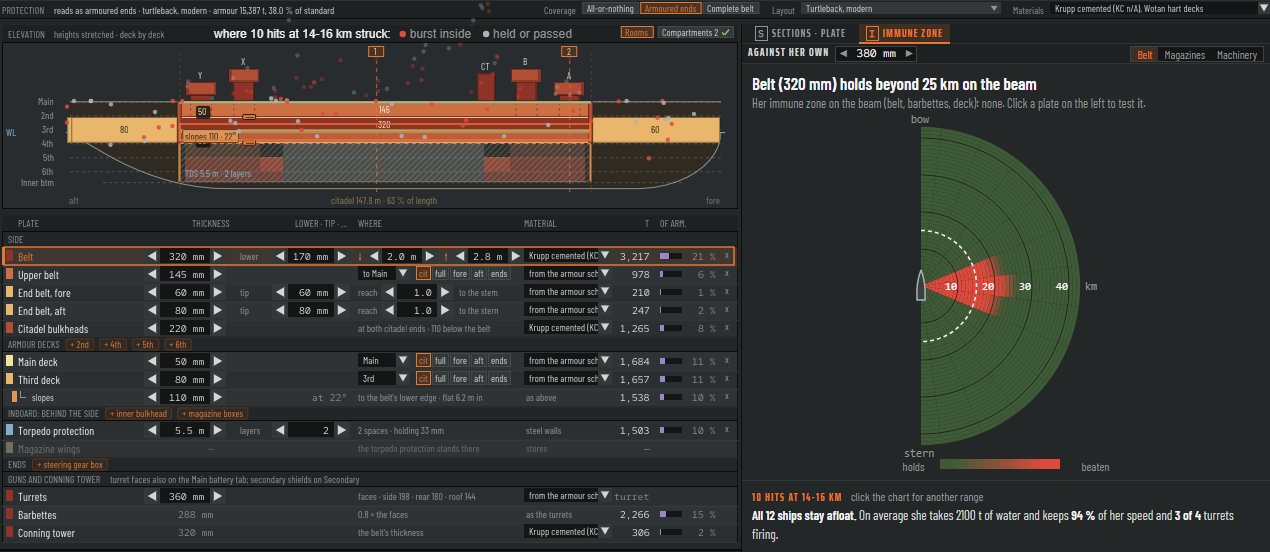
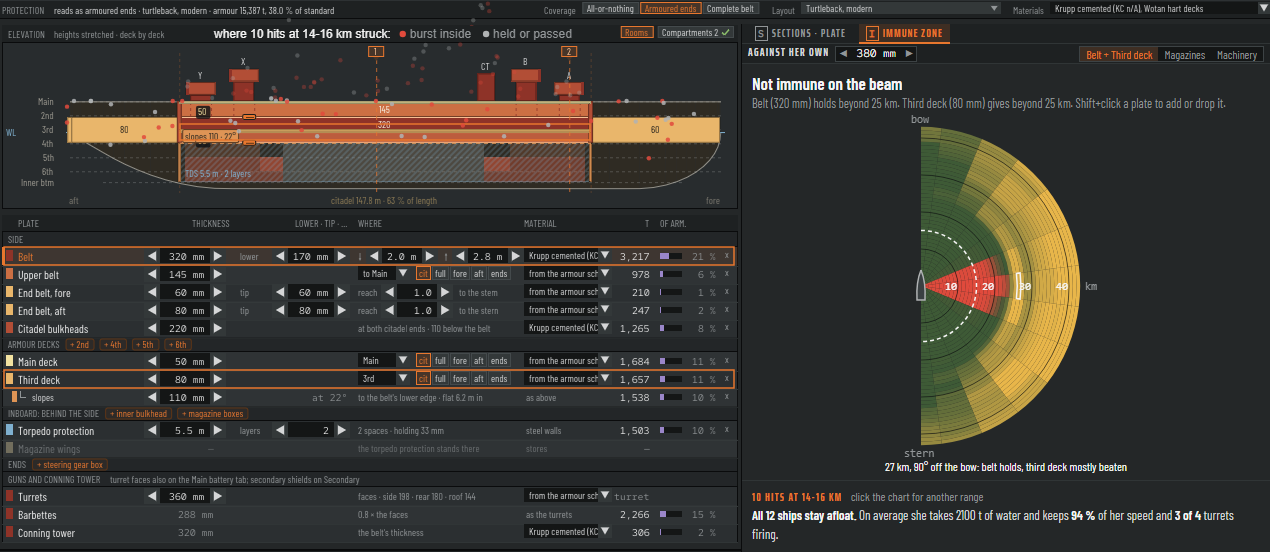
Immune zone mockup: shift+click tests plates together, the main belt and her thickest deck by default

diff --git a/docs/designer-ui/immune.html b/docs/designer-ui/immune.html
@@ -7,8 +7,10 @@
      Second pass (2026-11-14, the user: "way too information dense"): the chart alone, a headline, and in words what hits
      at the range picked on the chart do to her. Third: the armour first (the belt, the main barbettes, the deck), the
      vitals a click away; the placeholder gone from Sections · plate. Sixth: a plate picked on the left (a row of the
-     table, or the plate on the elevation) is tested at its centre; the main belt by default.
-     URL: ?cal=305|203  ?v=plate|mag|mach  ?plate=belt|upper|end-fore|end-aft|bulkheads|deck:0|deck:2|slopes|turrets|barbettes|ct  ?km=N (the range picked)  ?hover=R,A (a cell's tip: range index, angle index)
+     table, or the plate on the elevation) is tested at its centre; the main belt by default. Eighth: shift+click adds or
+     drops a plate, the plates picked tested together (beaten where any is); the main belt and her thickest deck by default.
+     URL: ?cal=305|203  ?v=plate|mag|mach  ?plate=belt,deck:2 (any of belt, upper, end-fore, end-aft, bulkheads, deck:0,
+     deck:2, slopes, turrets, barbettes, ct)  ?km=N (the range picked)  ?hover=R,A (a cell's tip: range index, angle index)
      ?tab=plate (the right column as it is today) -->
 <style>
 @font-face{font-family:'Saira Extra Condensed';font-weight:700;src:url(assets/fonts/saira-extra-condensed-latin-700-normal.woff2)}
@@ -60,7 +62,7 @@ body{background:var(--edge);font:13px/1.3 var(--font-ui);color:var(--text)}
 <script src="immune-data.js"></script>
 <script>
 const q = new URLSearchParams(location.search);
-const S = {cal: +(q.get('cal') || 380), v: {mag: 1, mach: 2}[q.get('v')] ?? 0, plate: q.get('plate') || 'belt', km: q.has('km') ? +q.get('km') : 15, hover: q.get('hover'), tab: q.get('tab') || 'iz'};
+const S = {cal: +(q.get('cal') || 380), v: {mag: 1, mach: 2}[q.get('v')] ?? 0, sel: q.get('plate') ? q.get('plate').split(',') : null, km: q.has('km') ? +q.get('km') : 15, hover: q.get('hover'), tab: q.get('tab') || 'iz'};
 const C = {red: '#E04A3C', amber: '#E8B64A', muted: '#919597', bright: '#F5F5F5', plan: '#B0B3B4'};
 const h = (t, a = {}, ...k) => { const e = document.createElement(t); for (const [n, x] of Object.entries(a)) n === 'on' ? e.onclick = x : e.setAttribute(n, x);
   for (const c of k.flat()) if (c != null) e.append(c.nodeType ? c : document.createTextNode(c)); return e; };
@@ -80,14 +82,16 @@ const PLATES = {
   'barbettes': {name: 'Barbettes', mm: 288, row: 505, el: []},
   'ct': {name: 'Conning tower', mm: 320, row: 523, el: [[477, 66, 21, 34]]},
 };
-const P = () => IZ.plates[S.cal][S.plate], PL = () => PLATES[S.plate];
-const through = (r, ai) => { const c = P().cells[r]?.[ai]; return c && c[0] ? c[1] / c[0] : 0; };
+// the plates picked: the main belt and her thickest deck unless the URL says
+S.sel ??= ['belt', Object.keys(PLATES).filter(k => k.startsWith('deck:')).reduce((a, b) => PLATES[b].mm > PLATES[a].mm ? b : a)];
+const PS = k => IZ.plates[S.cal][k];
+const shareOf = (k, r, ai) => { const c = PS(k).cells[r]?.[ai]; return c && c[0] ? c[1] / c[0] : null; };
+const label = () => S.sel.map(k => PLATES[k].name).join(' + ');
 const band = () => A().bands.find(b => S.km * 1000 >= b.from && S.km * 1000 < b.to) ?? A().bands[0];
 
 // the plate: holds, or beaten (more than half through it whole: red for a plate that stands as the side, amber for one
 // that lies as a deck). The vitals: safe, in through the side, in through the deck.
 function state(r, ai) {
-  if (S.v === 0) return through(r, ai) >= 0.5 ? (PL().lies ? 'deck' : 'side') : 'safe';
   const [shots, , side, deck] = T(S.v + 2).cells[r][ai];
   if (!shots) return 'safe';
   return side / shots >= 0.5 ? 'side' : deck / shots >= 0.5 ? 'deck' : 'safe';
@@ -99,26 +103,38 @@ const fill = {side: C.red, deck: C.amber, safe: '#3E5A36'};
 function colourOf(r, ai) {
   // the share softened with its neighbours for the colour alone (half its own, the rest from the next ranges and
   // angles): a few shells' chance doesn't mottle the chart; the headline and the edges keep the cells' own
-  const z = Z(), raw = (rr, aa) => {
-    if (rr < 0 || rr >= z.ranges.length || aa < 0 || aa >= z.angles.length) return null;
-    if (S.v === 0) { const c = P().cells[rr][aa]; return c[0] ? c[1] / c[0] : null; }
-    const c = T(S.v + 2).cells[rr][aa]; return c[0] ? (c[2] + c[3]) / c[0] : null;
+  const z = Z();
+  const soft = raw => {
+    let sum = 0, w = 0;
+    for (const [dr, da, k] of [[0, 0, 4], [-1, 0, 1], [1, 0, 1], [0, -1, 1], [0, 1, 1]]) {
+      const rr = r + dr, aa = ai + da;
+      if (rr < 0 || rr >= z.ranges.length || aa < 0 || aa >= z.angles.length) continue;
+      const x = raw(rr, aa);
+      if (x != null) { sum += k * x; w += k; }
+    }
+    return w ? sum / w : 0;
   };
-  let sum = 0, w = 0;
-  for (const [dr, da, k] of [[0, 0, 4], [-1, 0, 1], [1, 0, 1], [0, -1, 1], [0, 1, 1]]) {
-    const x = raw(r + dr, ai + da);
-    if (x != null) { sum += k * x; w += k; }
+  let share, to;
+  if (S.v === 0) {
+    // the plates together: beaten where any is, its colour by the kind of plate that gives most (red a side plate,
+    // amber a deck)
+    let side = 0, deck = 0;
+    for (const k of S.sel) {
+      const x = soft((rr, aa) => shareOf(k, rr, aa));
+      if (PLATES[k].lies) deck = Math.max(deck, x); else side = Math.max(side, x);
+    }
+    [share, to] = side >= deck ? [side, fill.side] : [deck, fill.deck];
+  } else {
+    share = soft((rr, aa) => { const c = T(S.v + 2).cells[rr][aa]; return c[0] ? (c[2] + c[3]) / c[0] : null; });
+    const [, , side, deck] = T(S.v + 2).cells[r][ai];
+    to = side >= deck ? fill.side : fill.deck;
   }
-  const share = w ? sum / w : 0;
-  let to = PL().lies ? fill.deck : fill.side;
-  if (S.v !== 0) { const [, , side, deck] = T(S.v + 2).cells[r][ai]; to = side >= deck ? fill.side : fill.deck; }
   return mix(fill.safe, to, Math.min(1, Math.max(0, (share - 0.1) / 0.8)));
 }
 const mix = (a, b, t) => {
   const p = x => [1, 3, 5].map(i => parseInt(x.slice(i, i + 2), 16)), [x, y] = [p(a), p(b)];
   return `rgb(${x.map((v, i) => Math.round(v + (y[i] - v) * t)).join(',')})`;
 };
-const keys = () => S.v === 0 ? [['safe', 'holds'], [PL().lies ? 'deck' : 'side', 'beaten']] : [['safe', 'safe'], ['side', 'in through the side'], ['deck', 'in through the deck']];
 
 function chart() {
   const R = 160, W = R + 70, H = 2 * R + 26, cv = h('canvas', {id: 'chart', width: W, height: H}), g = cv.getContext('2d');
@@ -151,7 +167,7 @@ function chart() {
       const gets = x => x < 0.1 ? 'safe' : x < 0.5 ? 'a few get in' : x < 0.9 ? 'most get in' : 'all get in';
       const at = `${z.ranges[r] / 1000} km, ${z.angles[ai]}° off the bow: `;
       let t;
-      if (S.v === 0) t = at + (P().cells[r][ai][0] ? `${PL().name.toLowerCase()} ${held(through(r, ai))}` : `the ${PL().name.toLowerCase()} can't be hit from there`);
+      if (S.v === 0) t = at + S.sel.map(k => { const x = shareOf(k, r, ai); return `${PLATES[k].name.toLowerCase()} ${x == null ? 'not hit from there' : held(x)}`; }).join(', ');
       else { const c = T(S.v + 2).cells[r][ai]; t = at + (c[0] ? gets((c[2] + c[3]) / c[0]) : 'out of reach'); }
       // the cell outlined, its words on the line under the chart
       const a0 = (Math.max(0, z.angles[ai] - 7.5) - 90) * Math.PI / 180, a1 = (Math.min(180, z.angles[ai] + 7.5) - 90) * Math.PI / 180;
@@ -176,15 +192,28 @@ function headline() {
   const [zi, zo] = z.armour[beam];
   const zone = zi <= 0 && zo >= z.reachM ? 'at every range' : zo - zi >= 1000 ? `from ${kmOf(zi)} to ${kmOf(zo)} km` : 'none';
   if (S.v === 0) {
-    const pl = PL(), [inner, outer] = P().edges[beam], name = `${pl.name} (${pl.mm} mm)`;
-    // the plural plates (barbettes, turrets, bulkheads, slopes) hold, the one belt holds
-    const many = /s$/.test(pl.name), holds = many ? 'hold' : 'holds', gives = many ? 'give' : 'gives', is = many ? 'are' : 'is';
-    const head = pl.lies
-      ? outer >= z.reachM ? `${name} ${holds} at every range on the beam` : `${name} ${gives} beyond ${kmOf(outer)} km on the beam`
-      : inner <= 0 ? `${name} ${holds} at every range on the beam` : inner >= z.reachM - 1000 ? `${name} ${is} beaten at every range on the beam`
-      : `${name} ${holds} beyond ${kmOf(inner)} km on the beam`;
-    return [h('div', {class: 'head'}, head),
-      h('div', {class: 'why'}, `Her immune zone on the beam (belt, barbettes, deck): ${zone}. Click a plate on the left to test it.`)];
+    // each plate in a sentence: a side plate holds beyond a range, a deck gives beyond one
+    const sentence = k => {
+      const pl = PLATES[k], [inner, outer] = PS(k).edges[beam], name = `${pl.name} (${pl.mm} mm)`;
+      const many = /s$/.test(pl.name), holds = many ? 'hold' : 'holds', gives = many ? 'give' : 'gives', is = many ? 'are' : 'is';
+      return pl.lies
+        ? outer >= z.reachM ? `${name} ${holds} at every range` : `${name} ${gives} beyond ${kmOf(outer)} km`
+        : inner <= 0 ? `${name} ${holds} at every range` : inner >= z.reachM - 1000 ? `${name} ${is} beaten at every range`
+        : `${name} ${holds} beyond ${kmOf(inner)} km`;
+    };
+    const hint = S.sel.length > 1 ? 'Shift+click a plate to add or drop it.' : 'Click a plate on the left to test it; shift+click to test several together.';
+    if (S.sel.length === 1)
+      return [h('div', {class: 'head'}, sentence(S.sel[0]) + ' on the beam'),
+        h('div', {class: 'why'}, `Her immune zone on the beam (belt, barbettes, deck): ${zone}. ${hint}`)];
+    // together: from where every side plate holds to where the first deck gives
+    let inner = 0, outer = z.reachM;
+    for (const k of S.sel) {
+      const [i, o] = PS(k).edges[beam];
+      if (PLATES[k].lies) outer = Math.min(outer, o); else inner = Math.max(inner, i);
+    }
+    const head = inner <= 0 && outer >= z.reachM ? 'Immune at every range on the beam'
+      : outer - inner >= 1000 ? `Immune from ${kmOf(inner)} to ${kmOf(outer)} km on the beam` : 'Not immune on the beam';
+    return [h('div', {class: 'head'}, head), h('div', {class: 'why'}, S.sel.map(sentence).join('. ') + '. ' + hint)];
   }
   const v = T(S.v + 2), [inner, outer] = v.edges[beam];
   const head = inner <= 0 && outer >= z.reachM ? 'Immune at every range on the beam'
@@ -214,10 +243,12 @@ function dots() {
   if (S.tab !== 'iz') { g.fillStyle = '#242728'; g.fillRect(750, 518, 514, 21); return; }
   // the plate picked: its row and its place on the elevation outlined
   if (S.v === 0) {
-    const pl = PL();
     g.strokeStyle = '#E8772E'; g.lineWidth = 1.5;
-    g.strokeRect(4, pl.row, 730, 18);
-    for (const [x, y, w, hh] of pl.el) g.strokeRect(x, y, w, hh);
+    for (const k of S.sel) {
+      const pl = PLATES[k];
+      g.strokeRect(4, pl.row, 730, 18);
+      for (const [x, y, w, hh] of pl.el) g.strokeRect(x, y, w, hh);
+    }
   }
   const L = a.lengthM, wl = a.waterline, keel = -a.depth;
   const X = x => 67 + (x + L / 2) / L * 656, Y = zz => zz >= wl ? 101 + (0 - zz) / (0 - wl) * 31 : 132 + (wl - zz) / (wl - keel) * 58;
@@ -241,7 +272,11 @@ function hotspots() {
   for (const [key, pl] of Object.entries(PLATES))
     for (const [x, y, w, hh] of [[4, pl.row, 730, 18], ...pl.el])
       pane.append(h('div', {class: 'hot', title: `Test the ${pl.name.toLowerCase()} at its centre`,
-        style: `left:${x}px;top:${y}px;width:${w}px;height:${hh}px`, on: () => { S.plate = key; S.v = 0; S.tab = 'iz'; render(); }}));
+        style: `left:${x}px;top:${y}px;width:${w}px;height:${hh}px`, on: e => {
+          if (e.shiftKey) S.sel = S.sel.includes(key) ? (S.sel.length > 1 ? S.sel.filter(k => k !== key) : S.sel) : [...S.sel, key];
+          else S.sel = [key];
+          S.v = 0; S.tab = 'iz'; render();
+        }}));
 }
 
 function render() {
@@ -255,14 +290,15 @@ function render() {
     col.append(h('div', {class: 'sub'}, h('span', {class: 'cap'}, 'Against her own'),
       h('span', {class: 'step'}, h('b', {on: () => { S.cal = cals[Math.min(cals.length - 1, ci + 1)]; render(); }}, '◀'), h('span', {}, `${S.cal} mm`),
         h('b', {on: () => { S.cal = cals[Math.max(0, ci - 1)]; render(); }}, '▶')),
-      h('span', {class: 'r'}, h('span', {class: 'seg'}, [PL().name, 'Magazines', 'Machinery'].map((t, i) =>
+      h('span', {class: 'r'}, h('span', {class: 'seg'}, [label(), 'Magazines', 'Machinery'].map((t, i) =>
         h('span', {class: i === S.v ? 'on' : '', on: () => { S.v = i; render(); }}, t))))));
     S.tip = null;
     const cv = chart();
     col.append(...headline(), cv,
       S.tip ? h('div', {class: 'key', style: 'color:var(--bright)'}, S.tip)
         : h('div', {class: 'key'}, ...(S.v === 0
-          ? [h('span', {}, 'holds'), h('i', {style: `width:120px;background:linear-gradient(90deg,${fill.safe} 10%,${PL().lies ? fill.deck : fill.side} 90%)`}), h('span', {}, 'beaten')]
+          ? [h('span', {}, 'holds'), ...[[false, 'side plate beaten'], [true, 'deck beaten']].filter(([lies]) => S.sel.some(k => !!PLATES[k].lies === lies))
+              .flatMap(([lies, t], i) => [h('i', {style: `width:${i ? 60 : 80}px;${i ? 'margin-left:10px;' : ''}background:linear-gradient(90deg,${fill.safe} 10%,${lies ? fill.deck : fill.side} 90%)`}), h('span', {}, t)])]
           : [h('span', {}, 'safe'), h('i', {style: `width:60px;background:linear-gradient(90deg,${fill.safe} 10%,${fill.side} 90%)`}), h('span', {}, 'through the side'),
              h('i', {style: `width:60px;margin-left:10px;background:linear-gradient(90deg,${fill.safe} 10%,${fill.deck} 90%)`}), h('span', {}, 'through the deck')])),
       anger());

diff --git a/docs/designer-ui/immune-zone.md b/docs/designer-ui/immune-zone.md
@@ -341,6 +341,24 @@ after the flicker of a cell going between 49 % and 51 %).
 ![the barbettes, blended](png/immune-mockup-barbettes.png)
 ![the machinery, blended and softened](png/immune-mockup-machinery.png)
 
+**Eighth pass: plates together** (the user, 2026-11-14: "Shift + click on plates gives a joint penetration, and let's
+have the default be the main belt + thickest deck being selected"; decision 12).
+
+- **A click picks one plate, shift+click adds or drops one**; the default is the main belt and her thickest armour deck
+  (Bismarck's third deck, 80 mm). Every plate picked is outlined; the view switch reads "Belt + Third deck".
+- **Together, a cell is beaten where any plate picked is**, its colour by the kind that gives most: red a plate that
+  stands as the side, amber one that lies as a deck. That's why the two colours were there from the start (the USN's
+  chart: red the zone's inner edge, through the side close in; amber its outer edge, down through the deck far off): with
+  one plate shown it told nothing, with several it says which gave. The key shows a gradient for each kind picked.
+- **The headline is their joint zone**, from where every side plate picked holds to where the first deck picked gives
+  ("Immune from 17 to 28 km on the beam", Bismarck's belt and third deck against her own family at 305 mm), and under it
+  each plate in a sentence. One plate alone reads as before.
+- Each plate is its own run (its own aim points); the port keeps them by plate and combines them for the chart, so
+  adding a plate costs only that plate's run.
+
+![the default: belt and third deck, against 305 mm](png/immune-mockup-joint-305.png)
+![the fore end belt and the main deck, against 203 mm](png/immune-mockup-joint-203.png)
+
 Cost: the three plates at 16 shells a cell are about 4.6 s on one thread for Bismarck (190 µs a shell: the belt's lines
 cross more of her than the vitals' did), so the designer starts at 8 a cell (about 0.6 s on four threads) and refines.
 
@@ -362,3 +380,4 @@ cross more of her than the vitals' did), so the designer starts at 8 a cell (abo
 9. **The belt aimed at its centre**, every shell down the one line: "no need to do any fancy stuff with it."
 10. **The barbettes and the deck aimed the same way**, and more shells where it matters.
 11. **Any plate picked on the left is tested at its centre**, the main belt by default; the tab shows that plate.
+12. **Shift+click tests plates together** (beaten where any is); the default is the main belt and her thickest deck.
